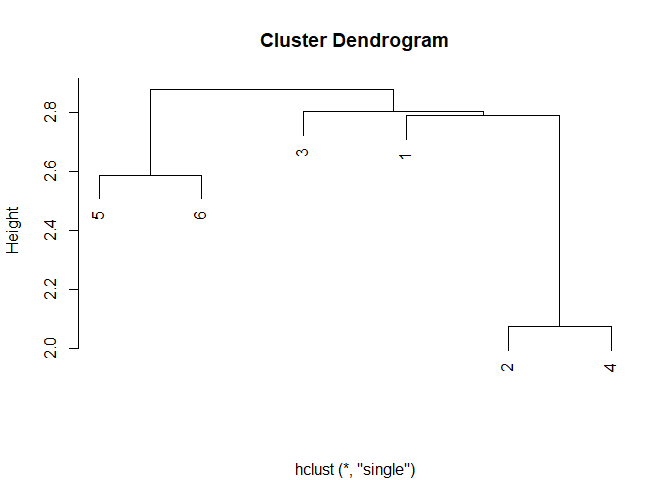
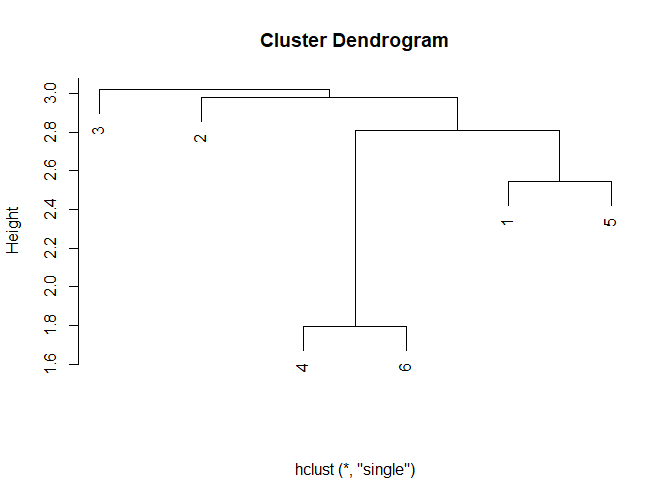
Added code snippets to produce example pca and hclust plots

diff --git a/README.md b/README.md
@@ -34,7 +34,7 @@ if(!requireNamespace("devtools", quietly = TRUE))
 devtools::install_github("ECSchmitt/PPClustA")
 ```
 
-## Introduction
+## Some Theory behind the package
 
 Looking at [expression
 data](https://en.wikipedia.org/wiki/Gene_expression_profiling) of many
@@ -70,13 +70,13 @@ random 6\*6 numerical matrix can be produced as follows
 matrix <- matrix(rnorm(36), nrow = 6)
 ```
 
-    #>            [,1]        [,2]       [,3]         [,4]       [,5]       [,6]
-    #> [1,] -0.8316770 -0.32777338  0.7895983  0.252647836  0.8519514 -0.6237336
-    #> [2,] -0.2608489 -0.97399357 -0.4872362 -0.150969246  0.7971430 -0.1867314
-    #> [3,]  2.4752612  1.52436404 -1.3972125 -0.213666986  1.3209266 -0.2560233
-    #> [4,]  1.9830862 -2.48082876  0.1827952  0.002833884 -0.2586679 -0.5761536
-    #> [5,]  2.4970150 -0.18868647  1.3523666  1.338565436 -2.2276366  1.2692404
-    #> [6,] -1.0020344  0.05276695  0.7229029 -0.330745530  0.4171497  0.7753319
+    #>            [,1]       [,2]        [,3]        [,4]       [,5]       [,6]
+    #> [1,]  0.2495581 -0.2195152 -0.02347888 -1.14825925  0.4381384  0.7427548
+    #> [2,] -0.3763518 -1.7988968 -0.40007168 -0.05523367  1.1726737 -0.8992808
+    #> [3,]  0.5820911 -1.0235236 -0.56503246  1.00924978 -2.0784868  0.5907842
+    #> [4,]  0.6657550 -0.1863052 -1.61718801 -0.87891449  1.6645129  0.2974034
+    #> [5,]  0.4611757  1.2510181 -0.45074213  0.58990042 -0.8090523 -0.2568607
+    #> [6,]  1.3482114 -1.3377372 -0.83921443 -0.90615738 -0.3235185  2.0363126
 
 To obtain a distance between the matrix columns (in case of a matrix
 input) or the vector members (in case of a vector input) one has to
@@ -95,11 +95,11 @@ distance_matrix <- dist(matrix, method = "euclidean")
 ```
 
     #>          1        2        3        4        5
-    #> 2 1.652463                                    
-    #> 3 4.440832 3.852172                           
-    #> 4 3.771591 3.007454 4.628683                  
-    #> 5 5.065834 5.009443 5.274785 3.994050         
-    #> 6 1.632503 2.042134 4.543818 4.244560 4.766897
+    #> 2 2.731036                                    
+    #> 3 3.472986 3.933255                           
+    #> 4 2.118752 2.742302 4.413190                  
+    #> 5 2.822361 3.842153 2.776156 3.471527         
+    #> 6 2.331289 3.867816 3.098241 3.061634 3.920711
 
 ### Hierarchical Clustering
 
@@ -173,7 +173,43 @@ components (PC). These (PC) are then plotted into a two dimensional
 space. Usually, the two PC covering the largest variances are plotted as
 they are likely to represent the most important features.
 
-<img src="man/figures/README-pressure-1.png" width="100%" />
+``` r
+# prducing a 100*100 matrix with random values
+matrix <- matrix(rnorm(1000), nrow = 100)
 
-In that case, don’t forget to commit and push the resulting figure
-files, so they display on GitHub!
+#calculating a distance matrix
+distance_matrix <- dist(matrix, method = "euclidean")
+
+#calculating PCA
+pca <- prcomp(distacne_matrix)
+
+#plotting pca
+plot(pca$x)
+```
+
+<img src="man/figures/README-unnamed-chunk-5-1.png" width="100%" /> You
+might now be disappointed by the sample image above as it doesn’t show
+fancy patterns. Since we use a randomly distributed matrix in our
+example, the distances between column vectors are likely to be quite
+similar and therefor the PCA may not contain interesting patterns. To
+investigate whether that is true, one can plot the principal components
+as a histogram to find out whether their contained variance is is
+similar. Such a plot can is part of a PCA object produced by prcomp()
+and can be plotted as follows:
+
+``` r
+# prducing a 100*100 matrix with random values
+matrix <- matrix(rnorm(1000), nrow = 100)
+
+#calculating a distance matrix
+distance_matrix <- dist(matrix, method = "euclidean")
+
+#calculating PCA
+pca <- prcomp(distance_matrix)
+
+#plotting pc histogram
+plot(pca)
+```
+
+<img src="man/figures/README-unnamed-chunk-6-1.png" width="100%" />
+\#\#Variables in Shiny and their impact on visualisation
